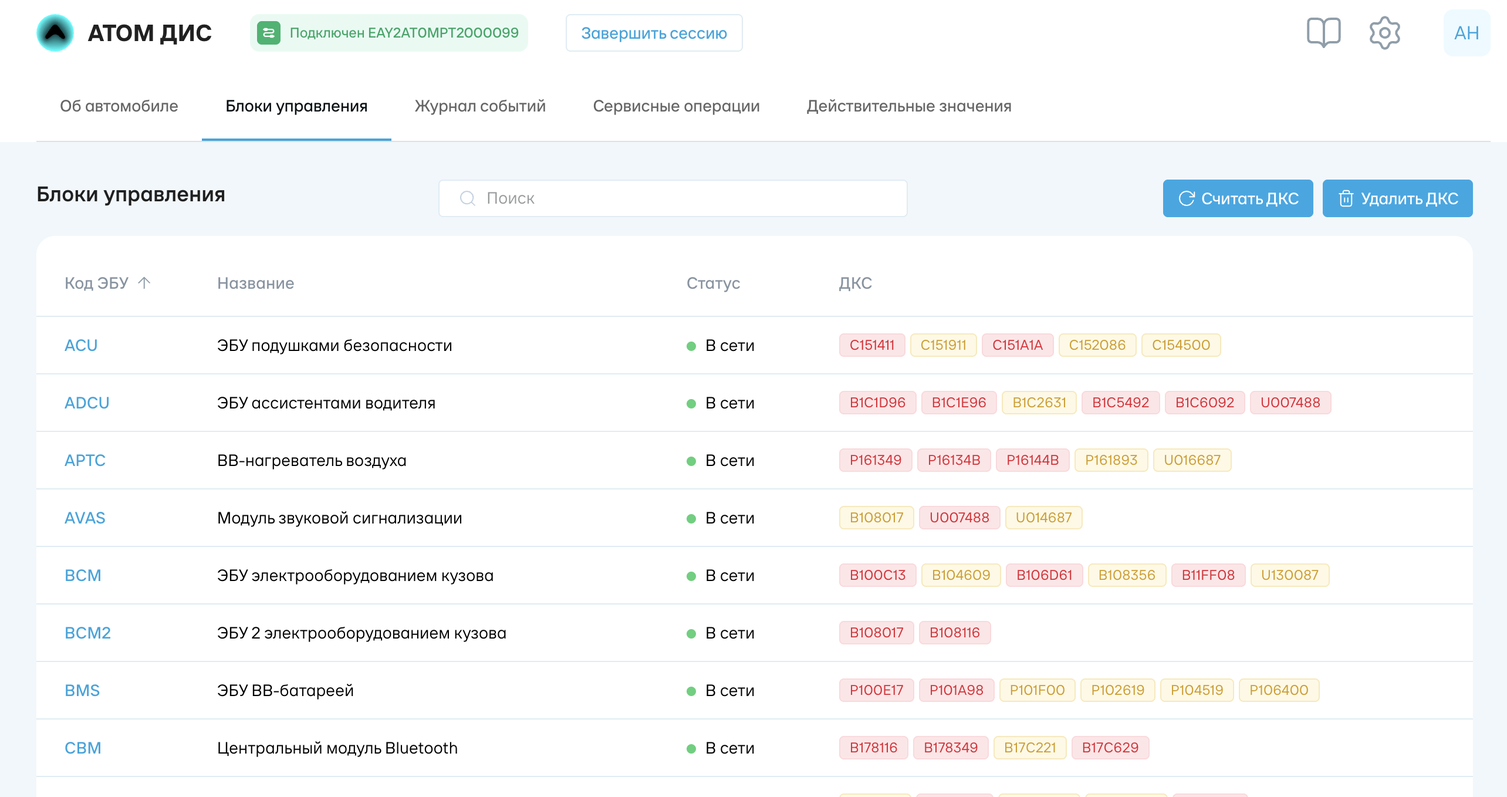
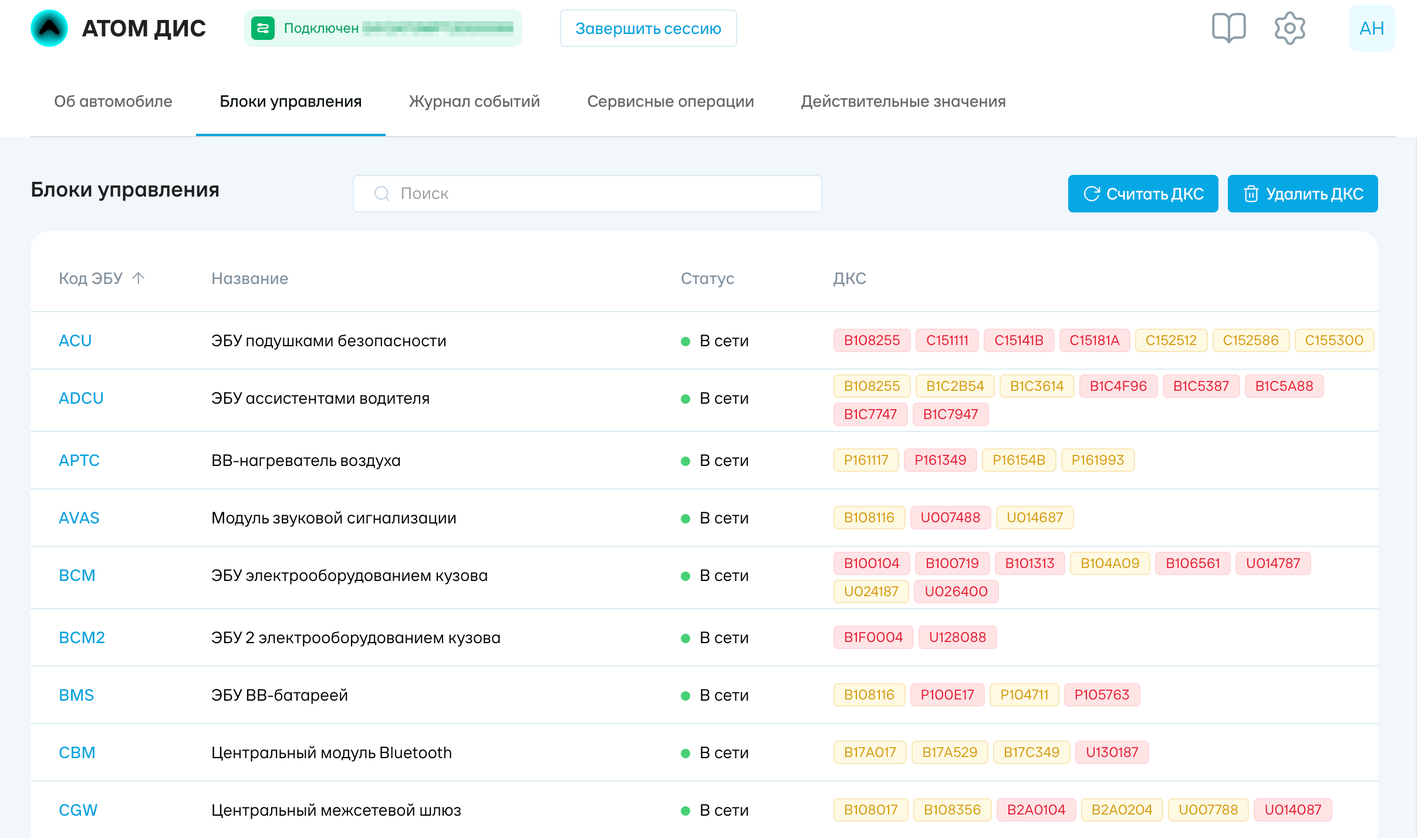
screenshots update

diff --git a/docs/ecu-page.md b/docs/ecu-page.md
@@ -30,7 +30,15 @@ import useBaseUrl from '@docusaurus/useBaseUrl';
 
 Чтобы считать ДКС **всех блоков управления**, перейдите в раздел **Блоки управления** меню АТОМ ДИС и нажмите **Считать ДКС** в верхнем правом углу.
 
-После завершения считывания для каждого блока в таблице будет отображен список обнаруженных ДКС или статус «Не выявлено» в случае, если кодов событий в ходе последнего считывания не обнаружено. По умолчанию ЭБУ отсортированы в алфавитном порядке; чтобы просмотреть все блоки управления с выявленными ДКС, отсортируйте таблицу по столбцу ДКС. 
+После завершения считывания для каждого блока в таблице будет отображен список обнаруженных ДКС или статус «При чтении блока ДКС не обнаружено» в случае, если кодов событий в ходе последнего считывания не обнаружено. По умолчанию ЭБУ отсортированы в алфавитном порядке; чтобы просмотреть все блоки управления с выявленными ДКС, отсортируйте таблицу по столбцу ДКС. 
+
+<figure className="img-card">
+  <img
+    src={useBaseUrl('/img/ecu-with-dtc.png')}
+    alt="Диагностические коды событий блоков управления"
+  />
+  <figcaption>Диагностические коды событий блоков управления</figcaption>
+</figure>
 
 :::tip
 Считывание ДКС всех блоков управления также доступно в разделе [**Журнал событий**](docs/dtc/index.md) главного меню.
@@ -38,11 +46,11 @@ import useBaseUrl from '@docusaurus/useBaseUrl';
 
 Чтобы считать ДКС **отдельного ЭБУ**:
 1. Нажмите на строку блока в списке ЭБУ на странице **Блоки управления**.
-2. Нажмите **Считать ДКС блока** в открывшейся боковой панели. Чтобы перейти на страницу с детальной информацией блока управления, нажмите на название блока в списке.
+2. Нажмите **Считать ДКС** в открывшейся боковой панели. Чтобы перейти на страницу с детальной информацией блока управления, нажмите на название блока в списке.
 
 <figure className="img-card">
   <img
-    src={useBaseUrl('/img/ECU_Sidebar.png')}
+    src={useBaseUrl('/img/read-ecu.png')}
     alt="Считать ДКС блока"
   />
   <figcaption>Считать ДКС блока</figcaption>
@@ -69,7 +77,7 @@ import useBaseUrl from '@docusaurus/useBaseUrl';
 
 <figure className="img-card">
   <img
-    src={useBaseUrl('/img/ECU-Sidebar.jpg')}
+    src={useBaseUrl('/img/view-ecu.png')}
     alt="Боковая панель списка ЭБУ"
   />
   <figcaption>Нажмите **Описание и функции** для перехода на страницу ЭБУ</figcaption>
@@ -79,7 +87,7 @@ import useBaseUrl from '@docusaurus/useBaseUrl';
 
 <figure className="img-card">
   <img
-    src={useBaseUrl('/img/ECU-Page.jpg')}
+    src={useBaseUrl('/img/ecu-page-agent.png')}
     alt="Страница блока управления"
   />
   <figcaption>Страница блока управления</figcaption>
@@ -107,7 +115,7 @@ import useBaseUrl from '@docusaurus/useBaseUrl';
 
 На странице блока управления доступны диагностические операции для этого ЭБУ: 
 - активация исполнительных механизмов,
-- выбор действительных значений для мониторинга,
+- выбор параметров для мониторинга действительных значений,
 - сервисные операции,
 - тесты.
 
@@ -115,17 +123,21 @@ import useBaseUrl from '@docusaurus/useBaseUrl';
 
 <figure className="img-card">
   <img
-    src={useBaseUrl('/img/ECU-Page-tests.png')}
+    src={useBaseUrl('/img/ecu-page-service.png')}
     alt="Выбор диагностической операции"
   />
   <figcaption>Выбор диагностической операции</figcaption>
 </figure>
 
 :::info
-В выпадающем списке **действительных значений** боковой панели страницы ЭБУ вы можете выбрать параметры для мониторинга действительных значений. Для просмотра графиков и записи значений перейдите в раздел [**Действительные значения**](docs/live-data.md) главного меню АТОМ ДИС.
+В выпадающем **списке параметров** боковой панели страницы ЭБУ вы можете выбрать параметры для мониторинга действительных значений. Для просмотра графиков и записи значений перейдите в раздел [**Действительные значения**](docs/live-data.md) главного меню АТОМ ДИС.
+::: 
 
+:::warning
 Список **сервисных операций** на странице блока управления содержит **только** операции, доступные для выбранного ЭБУ. Чтобы просмотреть операции, применимые ко всем или к нескольким блокам, перейдите в раздел [**Сервисные операции**](docs/service-operations.md) главного меню.
 :::
+
+<!-- :::note
 
 ### Исполнительные механизмы 
 
@@ -156,4 +168,4 @@ import useBaseUrl from '@docusaurus/useBaseUrl';
   />
   <figcaption>Активация исполнительного механизма</figcaption>
 </figure>
-
+-->

diff --git a/docs/live-data.md b/docs/live-data.md
@@ -25,7 +25,7 @@ import useBaseUrl from '@docusaurus/useBaseUrl';
 
 <figure className="img-card">
   <img
-    src={useBaseUrl('/img/Monitoring-Add-Data-Parameter.png')}
+    src={useBaseUrl('/img/Monitoring-Expand-List.png')}
     alt="Выбор параметров для мониторинга"
   />
   <figcaption>Выбор параметров для мониторинга</figcaption>
@@ -42,7 +42,7 @@ import useBaseUrl from '@docusaurus/useBaseUrl';
 
 <figure className="img-card">
   <img
-    src={useBaseUrl('/img/Monitoring-Data-Chart.png')}
+    src={useBaseUrl('/img/live-data-chart.png')}
     alt="Отображение данных мониторинга"
   />
   <figcaption>Отображение данных мониторинга</figcaption>
@@ -57,11 +57,11 @@ import useBaseUrl from '@docusaurus/useBaseUrl';
   src={useBaseUrl('/img/Threshold-Button.svg')}
   alt="Запись"
   style={{ width: '30px', verticalAlign: 'middle', margin: '0 4px' }}
-/> (<mark>_у иконки должен быть тултип_</mark>) в строке отслеживаемого параметра.
+/> (*Редактировать*) в строке отслеживаемого параметра.
 
 <figure className="img-card">
   <img
-    src={useBaseUrl('/img/add-thresholds-control.png')}
+    src={useBaseUrl('/img/live-data-threshold.png')}
     alt="Добавление предельных значений"
   />
   <figcaption>Добавление предельных значений</figcaption>
@@ -71,21 +71,15 @@ import useBaseUrl from '@docusaurus/useBaseUrl';
 
 <figure className="img-card">
   <img
-    src={useBaseUrl('/img/add-thresholds-popup.png')}
+    src={useBaseUrl('/img/live-data-threshold-window.png')}
     alt="Добавление предельных значений"
   />
   <figcaption>Добавление предельных значений</figcaption>
 </figure>
 
+:::note
 Отклонения от предельных значений отображаются на графике в виде линии выбранного цвета.
-
-<figure className="img-card">
-  <img
-    src={useBaseUrl('/img/thresholds-chart.png')}
-    alt="Отклонения графика от предельных значений"
-  />
-  <figcaption>Отклонения графика от предельных значений</figcaption>
-</figure>
+:::
 
 ## Запись действительных значений
 
@@ -103,7 +97,7 @@ import useBaseUrl from '@docusaurus/useBaseUrl';
 
 <figure className="img-card">
   <img
-    src={useBaseUrl('/img/live-data-recording-in-progress.png')}
+    src={useBaseUrl('/img/2-second.png')}
     alt="Запись действительных значений"
   />
   <figcaption>Запись действительных значений</figcaption>
@@ -118,12 +112,12 @@ import useBaseUrl from '@docusaurus/useBaseUrl';
   src={useBaseUrl('/img/Play-Button.svg')}
   alt="Запись"
   style={{ width: '24px', verticalAlign: 'middle', margin: '0 4px' }}
-/>(Play) для воспроизведения.
+/>(*Воспроизвести*) для воспроизведения.
 3. Чтобы открыть графики, нажмите на иконку <img
   src={useBaseUrl('/img/Chart-Button.svg')}
   alt="Запись"
   style={{ width: '30px', verticalAlign: 'middle', margin: '0 4px' }}
-/>(_у иконки должен быть тултип_) в строке отображаемого параметра.
+/>(*График*) в строке отображаемого параметра.
 
 Во время воспроизведения:
 - используйте ползунок для перемещения по временной шкале;
@@ -132,7 +126,7 @@ import useBaseUrl from '@docusaurus/useBaseUrl';
 
 <figure className="img-card">
   <img
-    src={useBaseUrl('/img/Play-record-Grab.png')}
+    src={useBaseUrl('/img/Play-record-overlap.png')}
     alt="Просмотр записи"
   />
   <figcaption>Просмотр записи</figcaption>
@@ -148,7 +142,7 @@ import useBaseUrl from '@docusaurus/useBaseUrl';
 
 <figure className="img-card">
   <img
-    src={useBaseUrl('/img/edit-recording.png')}
+    src={useBaseUrl('/img/edit-live-data-recording.png')}
     alt="Редактирование записи"
   />
   <figcaption>Редактирование записи</figcaption>

diff --git a/docs/dtc/index.md b/docs/dtc/index.md
@@ -5,7 +5,7 @@ import useBaseUrl from '@docusaurus/useBaseUrl';
 
 # Диагностические коды событий (ДКС)
 
-**Диагностический код события** (ДКС, DTC, Diagnostic Trouble Code) — стандартизированный код, генерируемый бортовой системой самодиагностики автомобиля (OBD-II) при обнаружении события. Код события состоит из буквенно—цифрового идентификатора, где начальная буква указывает на системную область транспортного средства: P — Силовой агрегат, B — Кузов, C — Шасси и U - Сеть (связь).
+**Диагностический код события** (ДКС, DTC, Diagnostic Trouble Code) — стандартизированный код, генерируемый бортовой системой самодиагностики автомобиля (OBD-II) при обнаружении события. Код события состоит из буквенно-цифрового идентификатора, где начальная буква указывает на системную область транспортного средства: P — Силовой агрегат, B — Кузов, C — Шасси, U — Сеть (связь).
 
 Диагностические коды событий (ДКС) формируются электронными блоками управления (ЭБУ) при обнаружении отклонений от нормального режима работы и используются как отправная точка диагностики — от первичного анализа до выбора дальнейших диагностических действий.
 
@@ -30,7 +30,7 @@ import useBaseUrl from '@docusaurus/useBaseUrl';
 
 <figure className="img-card">
   <img
-    src={useBaseUrl('/img/Fault-Memory-Reading.png')}
+    src={useBaseUrl('/img/reading-dtc.png')}
     alt="Считывание ДКС"
   />
   <figcaption>Считывание ДКС</figcaption>
@@ -54,14 +54,13 @@ import useBaseUrl from '@docusaurus/useBaseUrl';
 - количество обнаруженных диагностических кодов (индикатор рядом с названием ЭБУ);
 - список кодов с основными параметрами:
   * диагностический код и его наименование;
-  * количество зафиксированных повторений (если доступно);
   * пробег;
   * дата и время;
   * статус («Активный» — выявлен в ходе текущего считывания; «Сохраненный» — выявлен ранее, но не подтвержден в текущем тесте самодиагностикой ЭБУ).
 
 <figure className="img-card">
   <img
-    src={useBaseUrl('/img/Fault-Memory.jpg')}
+    src={useBaseUrl('/img/dtc-journal.png')}
     alt="Журнал событий"
   />
   <figcaption>Журнал событий</figcaption>
@@ -87,7 +86,7 @@ import useBaseUrl from '@docusaurus/useBaseUrl';
 
 <figure className="img-card">
   <img
-    src={useBaseUrl('/img/Fault_Memory_Collapsed.png')}
+    src={useBaseUrl('/img/delete-dtc.png')}
     alt="Удаление ДКС"
   />
   <figcaption>Удаление ДКС</figcaption>

diff --git a/docs/dtc/dtc-info.md b/docs/dtc/dtc-info.md
@@ -1,6 +1,7 @@
 ---
 sidebar_position: 2
 ---
+import useBaseUrl from '@docusaurus/useBaseUrl';
 
 # Просмотр данных диагностического кода события (ДКС)
 
@@ -12,6 +13,14 @@ sidebar_position: 2
 - оценить влияние события на работу автомобиля;
 - проанализировать параметры, предшествовавшие регистрации ДКС;
 - принять решение о дальнейших диагностических действиях.
+
+<figure className="img-card">
+  <img
+    src={useBaseUrl('/img/dtc-page.jpg')}
+    alt="Подробная информация о диагностическом коде"
+  />
+  <figcaption>Подробная информация о диагностическом коде</figcaption>
+</figure>
 
 ## Общая информация о диагностическом коде события
 
@@ -27,6 +36,7 @@ sidebar_position: 2
 | **Приоритет** | Степень влияния на функционирование системы | Высокий / Средний / Низкий |
 | **Влияние на функции автомобиля** | Описание возможного влияния на функционирование системы | Нет влияния |
 | **Информирование водителя** | Указание на информирование водителя о зарегистрированном событии с использованием средств информирования водителя (визуальная и/или звуковая индикация, текстовое или голосовое сообщение и др.) | Да / Нет |
+
 
 ## Параметры на момент события (стоп-кадр)
 
@@ -52,3 +62,15 @@ sidebar_position: 2
 | Включенная передача | D |
 | Состояние ВВ системы | Standby |
 | Заряд ВВ батареи | 42% | 
+
+:::note
+Если для диагностического кода события доступна ведомая диагностика, нажмите на кнопку в верхнем правом углу страницы ДКС и перейдите к Руководству по ведомой диагностике.
+
+<figure className="img-card">
+  <img
+    src={useBaseUrl('/img/dtc-diagnostics.png')}
+    alt="Нажмите **Ведомая диагностика** для просмотра руководства"
+  />
+  <figcaption>Нажмите **Ведомая диагностика** для просмотра руководства</figcaption>
+</figure>
+:::

diff --git a/docs/vehicle-info.md b/docs/vehicle-info.md
@@ -24,7 +24,7 @@ import useBaseUrl from '@docusaurus/useBaseUrl';
 
 <figure className="img-card">
   <img
-    src={useBaseUrl('/img/general-info.png')}
+    src={useBaseUrl('/img/About-car-Connected.png')}
     alt="Основная информация об автомобиле"
   />
   <figcaption>Основная информация об автомобиле</figcaption>
@@ -32,13 +32,13 @@ import useBaseUrl from '@docusaurus/useBaseUrl';
 
 ## Комплектация
 
-Подраздел **Комплектация** предоставляет сведения о конфигурации автомобиля и установленном оборудовании, а также об изменениях конфигурации, зарегистрированных в системе. Раздел используется для сопоставления конфигурации согласно базе данных производителя и фактической на автомобиле для проверки корректности работы систем и их функций.
+Подраздел **Комплектация** предоставляет сведения о конфигурации автомобиля и установленном оборудовании, а также об изменениях конфигурации, зарегистрированных в системе. Раздел используется для сопоставления конфигурации согласно базе данных производителя и фактической комплектации автомобиля для проверки корректности работы систем и их функций.
 
 Информация о комплектации рекомендуется к использованию при анализе рекламаций, связанных с отсутствием или некорректной работой отдельных функций. Особенности конфигурации могут влиять на доступность диагностических процедур и перечень допустимых сервисных операций.
 
 <figure className="img-card">
   <img
-    src={useBaseUrl('/img/inventory-button.png')}
+    src={useBaseUrl('/img/inventory.png')}
     alt="Нажмите на кнопку для просмотра сведений о комплектации"
   />
   <figcaption>Нажмите на кнопку для просмотра сведений о комплектации</figcaption>

diff --git a/docs/service-operations.md b/docs/service-operations.md
@@ -25,7 +25,7 @@ import useBaseUrl from '@docusaurus/useBaseUrl';
 
 <figure className="img-card">
   <img
-    src={useBaseUrl('/img/service-operations-select.png')}
+    src={useBaseUrl('/img/service-operations-agent.png')}
     alt="Выбор сервисной операции"
   />
   <figcaption>Выберите сервисную операцию из списка</figcaption>
@@ -34,16 +34,8 @@ import useBaseUrl from '@docusaurus/useBaseUrl';
 :::warning
 Одновременное выполнение нескольких сервисных операций невозможно. Перед запуском новой операции завершите или отмените текущую.
 
-также невозможно завершение сессии
+Завершение диагностической сессии также невозможно при наличии незавершенных сервисных операций.
 :::
-
-<figure className="img-card">
-  <img
-    src={useBaseUrl('/img/service-operation-not-allowed.png')}
-    alt=""
-  />
-  <figcaption></figcaption>
-</figure>
  
 ## Выполнение сервисных операций
 
@@ -59,11 +51,13 @@ import useBaseUrl from '@docusaurus/useBaseUrl';
 
 <figure className="img-card">
   <img
-    src={useBaseUrl('/img/service-operation-start.png')}
+    src={useBaseUrl('/img/start-operation-agent.png')}
     alt="Запуск сервисной операции"
   />
   <figcaption>Запуск сервисной операции</figcaption>
 </figure>
+
+
 
 4. Выполняйте этапы операции, строго следуя указаниям на экране. 
 5. По завершении каждого этапа нажмите **Следующий шаг**, чтобы продолжить выполнение операции.
@@ -74,7 +68,7 @@ import useBaseUrl from '@docusaurus/useBaseUrl';
 
 <figure className="img-card">
   <img
-    src={useBaseUrl('/img/service-operation-in-progress.png')}
+    src={useBaseUrl('/img/next-step.png')}
     alt="Выполнение сервисной операции"
   />
   <figcaption>Выполнение сервисной операции</figcaption>
@@ -84,7 +78,7 @@ import useBaseUrl from '@docusaurus/useBaseUrl';
 
 <figure className="img-card">
   <img
-    src={useBaseUrl('/img/service-operation-finish.png')}
+    src={useBaseUrl('/img/complete-operation-agent.png')}
     alt="Завершение сервисной операции"
   />
   <figcaption>Завершение сервисной операции</figcaption>

diff --git a/docs/getting-started/login.md b/docs/getting-started/login.md
@@ -29,4 +29,4 @@ import useBaseUrl from '@docusaurus/useBaseUrl';
 
 Для авторизации в **АТОМ ДИС** следуйте инструкциям на экране.
 
-После успешной авторизации приложение отобразит перечень VIN автомобилей, зарегистрированных для сервисного обслуживания в вашем экземпляре **АТОМ ДИС**. 
+После успешной авторизации приложение отобразит [перечень VIN автомобилей](docs/connection.md), зарегистрированных для сервисного обслуживания в вашем экземпляре **АТОМ ДИС**. 
